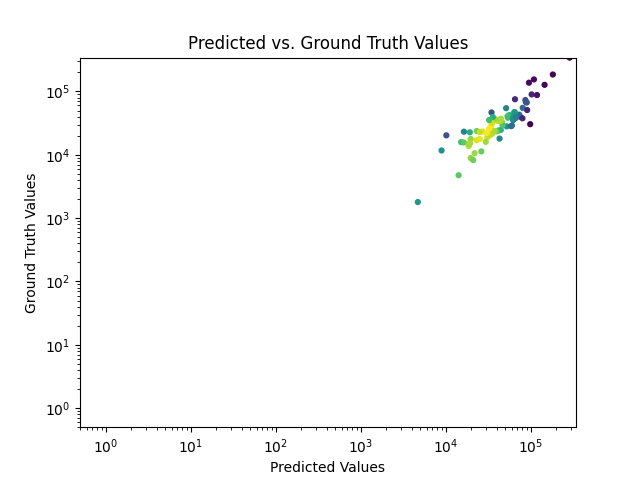
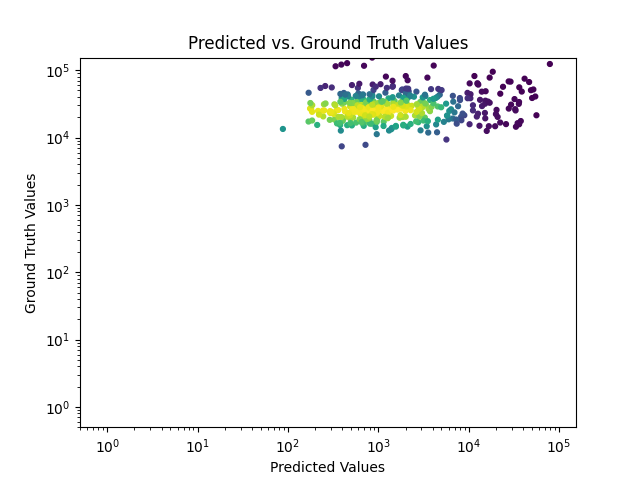
sync code RWA, PRI

diff --git a/utils/transform.py b/utils/transform.py
@@ -5,6 +5,7 @@ import random
 
 import torch
 import torchvision.transforms.functional as TF
+import torchvision.transforms as transforms
 from torch import Tensor
 from utils.constants import config_path
 from utils.file_folder_ops import load_json
@@ -12,7 +13,7 @@ from utils.file_folder_ops import load_json
 from utils.utils import *
 from utils.plot import plot_2dmatrix
 
-
+# CycleGAN
 from model.cycleGAN.models import create_model
 
 
@@ -34,14 +35,37 @@ class Namespace:
     def __init__(self, **kwargs):
         self.__dict__.update(kwargs)
 
+class UnNormalize(object):
+    def __init__(self, mean, std):
+        self.mean = mean
+        self.std = std
 
-class Eu2PRI(object):
-    def __init__(self, model_checkpoint="eu2rwa_cyclegan"):
+    def __call__(self, tensor):
+        """
+        Args:
+            tensor (Tensor): Tensor image of size (C, H, W) to be normalized.
+        Returns:
+            Tensor: Normalized image.
+        """
+        for t, m, s in zip(tensor, self.mean, self.std):
+            t.mul_(s).add_(m)
+            # The normalize code -> t.sub_(m).div_(s)
+        return tensor
+    
+
+class Eu2Rwa(object):
+    def __init__(self, model_checkpoint="eu2rwa_cycleganFreeze", p=0.5):
         
-        opt = Namespace(model="test", name=model_checkpoint, input_nc=3, ngf=64, netG='resnet_9blocks', norm='instance', no_dropout=True, init_type="normal", init_gain=0.02 )
+        opt = Namespace(model="test", name=model_checkpoint, input_nc=3, output_nc=3, ngf=64, netG='resnet_9blocks', norm='instance',
+                        no_dropout=True, init_type="normal", init_gain=0.02, epoch="latest", load_iter=0, isTrain=False, gpu_ids=[0],
+                        preprocess=None,  model_suffix="_A", dataset_mode="single", verbose=False,
+                        checkpoints_dir="/scratch2/metzgern/HAC/code/CycleGANAugs/pytorch-CycleGAN-and-pix2pix/checkpoints/" )
         self.model = create_model(opt)      # create a model given opt.model and other options
         self.model.setup(opt)               # regular setup: load and print networks; create schedulers
-        self.model.eval()
+        self.model.eval()   
+        self.normalize = transforms.Normalize((0.5, 0.5, 0.5), (0.5, 0.5, 0.5))  
+        self.unnormalize  = transforms.Normalize( mean=[-1, -1, -1], std=[2, 2, 2] )            
+        self.p = p
 
     def __call__(self, x):
         if torch.is_tensor(x):
@@ -52,17 +76,22 @@ class Eu2PRI(object):
         if torch.rand(1) < self.p:
             selection = torch.rand(x.shape[0])<self.p
 
-            # TODO: Preprocess
+            # Preprocess, according to the training protocol
+            # x = torch.clip((x[selection]-50)/4000*255, 0, 255)/255 # clip to 0-255
+            x_select = torch.clip((x[selection]-50)/4000, 0, 1) # clip to 0-255
+            x_select = self.normalize(x_select) # normalize to -1,1
 
             # CycleGAn expects a dictionary with the key 'A' and 'A_paths'
             # data = {'A': x[selection], 'A_paths': None, 'B': None, 'B_paths': None}
-            data = {'A': x[selection], 'A_paths': None}
-            self.model.set_input(data)  # unpack data from data loader
+            # data = {'A': x_select, 'A_paths': None}
+            self.model.set_input({'A': x_select, 'A_paths': None})  # unpack data from data loader
             self.model.test()           # run inference
 
-            # TODO: Postprocess
+            # Postprocess  according to the training protocol
+            x_select = self.unnormalize(self.model.fake)*4000+50
 
-            x[selection] = self.model.fake # G(real)
+            # Replace the selected samples with the processed ones
+            x[selection] = x_select # G(real)
 
         return x if mask is None else (x, mask)
     

diff --git a/run_train.py b/run_train.py
@@ -12,6 +12,7 @@ from torchvision.transforms import Normalize
 from torchvision import transforms
 from utils.transform import OwnCompose
 from utils.transform import RandomRotationTransform, RandomHorizontalFlip, RandomVerticalFlip, RandomHorizontalVerticalFlip, RandomBrightness, RandomGamma, HazeAdditionModule, AddGaussianNoise
+from utils.transform import Eu2Rwa
 from tqdm import tqdm
 
 from torchcontrib.optim import SWA
@@ -556,10 +557,10 @@ class Trainer:
                         self.target_test_stats = {**self.target_test_stats,
                                                   **get_test_metrics(census_pred_raw[built_up], census_gt_raw[built_up].float().cuda(), tag="CensusRawPos_{}_{}".format(testdataloader.dataset.region, level))}
     
-                scatterplot = scatter_plot3(census_pred.tolist(), census_gt.tolist())
-                if scatterplot is not None:
-                    self.target_test_stats["Scatter/Scatter_{}_{}".format(testdataloader.dataset.region, level)] = wandb.Image(scatterplot)
-                    scatterplot.save("last_scatter.png")
+                    scatterplot = scatter_plot3(census_pred.tolist(), census_gt.tolist())
+                    if scatterplot is not None:
+                        self.target_test_stats["Scatter/Scatter_{}_{}".format(testdataloader.dataset.region, level)] = wandb.Image(scatterplot)
+                        # scatterplot.save("last_scatter.png")
 
             wandb.log({**{k + '/targettest': v for k, v in self.target_test_stats.items()}, **self.info}, self.info["iter"])
         
@@ -586,29 +587,18 @@ class Trainer:
                 RandomRotationTransform(angles=[90, 180, 270], p=0.75),
             ])
         else: 
-            if not args.Sentinel1: 
-                self.data_transform["general"] = transforms.Compose([
-                    # HazeAdditionModule()
-                    # AddGaussianNoise(std=0.1, p=0.9),
-                    # transforms.RandomHorizontalFlip(p=0.5), transforms.RandomVerticalFlip(p=0.5),
-                    # RandomRotationTransform(angles=[90, 180, 270], p=0.75), 
-                ])
-            else:
-                self.data_transform["general"] = transforms.Compose([
-                    # AddGaussianNoise(std=0.1, p=0.9),
-                    # RandomHorizontalVerticalFlip(p=0.5), transforms.RandomVerticalFlip(p=0.5),
-                    # RandomRotationTransform(angles=[90, 180, 270], p=0.75), 
-                ])
-        # self.data_transform["S2"] = OwnCompose([
-        #     RandomBrightness(p=0.9),
-        #     RandomGamma(p=0.9, gamma_limit=(0.2, 5.0)),
-        #     HazeAdditionModule(p=0.9, atm_limit=(0.3, 1.0), haze_limit=(0.05,0.3))
+            self.data_transform["general"] = transforms.Compose([
+                # AddGaussianNoise(std=0.1, p=0.9),
+            ])
         # ])
-        self.data_transform["S2"] = OwnCompose([
-            RandomBrightness(p=0.9, beta_limit=(0.666, 1.5)),
-            RandomGamma(p=0.9, gamma_limit=(0.6666, 1.5)),
-            # HazeAdditionModule(p=0.5, atm_limit=(0.3, 1.0), haze_limit=(0.05,0.3))
-        ])
+        S2augs = [  RandomBrightness(p=0.9, beta_limit=(0.666, 1.5)),
+                    RandomGamma(p=0.9, gamma_limit=(0.6666, 1.5)),
+                    # HazeAdditionModule(p=0.5, atm_limit=(0.3, 1.0), haze_limit=(0.05,0.3))
+        ]
+        if args.eu2rwa:
+            S2augs.append(Eu2Rwa())
+        self.data_transform["S2"] = OwnCompose(S2augs)
+
         
         self.data_transform["S1"] = transforms.Compose([
             # RandomBrightness(p=0.95),

diff --git a/run_eval.py b/run_eval.py
@@ -155,26 +155,27 @@ class Trainer:
                 
                 # convert populationmap to census
 
+                # convert populationmap to census
                 for level in testlevels[testdataloader.dataset.region]:
-                    census_pred, census_gt = testdataloader.dataset.convert_popmap_to_census(output_map, gpu_mode=True)
+                    census_pred, census_gt = testdataloader.dataset.convert_popmap_to_census(output_map, gpu_mode=True, level=level)
                     self.target_test_stats = {**self.target_test_stats,
-                                              **get_test_metrics(census_pred, census_gt.float().cuda(), tag="census")}
+                                              **get_test_metrics(census_pred, census_gt.float().cuda(), tag="MainCensus_{}_{}".format(testdataloader.dataset.region, level))}
                     built_up = census_gt>10
                     self.target_test_stats = {**self.target_test_stats,
-                                            **get_test_metrics(census_pred[built_up], census_gt[built_up].float().cuda(), tag="census_pos")}
-
+                                              **get_test_metrics(census_pred[built_up], census_gt[built_up].float().cuda(), tag="MainCensusPos_{}_{}".format(testdataloader.dataset.region, level))}
+                    
                     if self.boosted:
-                        census_pred_raw, census_gt_raw = testdataloader.dataset.convert_popmap_to_census(output_map_raw, gpu_mode=True)
+                        census_pred_raw, census_gt_raw = testdataloader.dataset.convert_popmap_to_census(output_map_raw, gpu_mode=True, level=level)
                         self.target_test_stats = {**self.target_test_stats,
-                                                **get_test_metrics(census_pred_raw, census_gt_raw.float().cuda(), tag="CensusRaw_{}_{}".format(testdataloader.dataset.region, level))}
+                                                  **get_test_metrics(census_pred_raw, census_gt_raw.float().cuda(), tag="CensusRaw_{}_{}".format(testdataloader.dataset.region, level))}
                         built_up = census_gt_raw>10
                         self.target_test_stats = {**self.target_test_stats,
-                                                **get_test_metrics(census_pred_raw[built_up], census_gt_raw[built_up].float().cuda(), tag="CensusRawPos_{}_{}".format(testdataloader.dataset.region, level))}
-
+                                                  **get_test_metrics(census_pred_raw[built_up], census_gt_raw[built_up].float().cuda(), tag="CensusRawPos_{}_{}".format(testdataloader.dataset.region, level))}
+    
                     scatterplot = scatter_plot3(census_pred.tolist(), census_gt.tolist())
                     if scatterplot is not None:
                         self.target_test_stats["Scatter/Scatter_{}".format(testdataloader.dataset.region)] = wandb.Image(scatterplot)
-                        scatterplot.save("last_scatter.png")
+                        # scatterplot.save("last_scatter.png")
 
                 print("Domain:", testdataloader.dataset.region)
                 print(self.target_test_stats)

diff --git a/data/PopulationDataset_target.py b/data/PopulationDataset_target.py
@@ -70,10 +70,10 @@ class Population_Dataset_target(Dataset):
             for data_type in ["boundary", "census"]:
                 self.file_paths[level][data_type] = os.path.join(region_root, datalocations[region][level][data_type])
 
-            # self.boundary_file = os.path.join(region_root, datalocations[region]["fine"]["boundary"])
-            # self.census_file = os.path.join(region_root, datalocations[region]["fine"]["census"])
-            # self.coarse_boundary_file = os.path.join(region_root, datalocations[region]["coarse"]["boundary"])
-            # self.coarse_census_file = os.path.join(region_root, datalocations[region]["coarse"]["census"])
+            self.boundary_file = os.path.join(region_root, datalocations[region]["fine"]["boundary"])
+            self.census_file = os.path.join(region_root, datalocations[region]["fine"]["census"])
+            self.coarse_boundary_file = os.path.join(region_root, datalocations[region]["coarse"]["boundary"])
+            self.coarse_census_file = os.path.join(region_root, datalocations[region]["coarse"]["census"])
             
         # weaksup data specific preparation
         if self.mode == "weaksup":
@@ -431,6 +431,9 @@ class Population_Dataset_target(Dataset):
         boundary_file = self.file_paths[level]["boundary"]
         census_file = self.file_paths[level]["census"]
 
+        # boundary_file = self.boundary_file
+        # census_file = self.census_file
+
         # raise NotImplementedError
         with rasterio.open(boundary_file, "r") as src:
             boundary = src.read(1)
@@ -446,7 +449,8 @@ class Population_Dataset_target(Dataset):
 
             # iterate over census regions and get totals
             # for i, (cidx,bbox) in tqdm(enumerate(zip(census["idx"], census["bbox"])), total=len(census)):
-            for i, (cidx,bbox) in tqdm(enumerate(zip(census["idx"], census["bbox"]))):
+            for i, (cidx,bbox) in enumerate(zip(census["idx"], census["bbox"])):
+            # for i, (cidx,bbox) in tqdm(enumerate(zip(census["idx"], census["bbox"]))):
                 xmin, xmax, ymin, ymax = tuple(map(int, bbox.strip('()').strip('[]').split(',')))
                 census_pred[i] = pred[xmin:xmax, ymin:ymax][boundary[xmin:xmax, ymin:ymax]==cidx].sum()
 

diff --git a/utils/02_preprocess_rwa_shapefile.py b/utils/02_preprocess_rwa_shapefile.py
@@ -132,18 +132,19 @@ def process(hd_regions_path, wp_regions_path,
     ##############################
     # now process the fine census data
     # read kigali census data
-    with rasterio.open(kigali_census_data_path, 'r') as src:
-        kigali_census_map = src.read(1)
-        kigali_census_meta = src.meta.copy()
 
     for res in [100,200,400,500,1000]:
+    # for res in [400,1000]:
+
+        with rasterio.open(kigali_census_data_path, 'r') as src:
+            kigali_census_map = src.read(1)
+            kigali_census_meta = src.meta.copy()
 
         this_outputfile = os.path.join(output_path, 'boundaries_kigali{}.tif'.format(res))
         this_censusfile = os.path.join(output_path, 'census_kigali{}.csv'.format(res))
-        tmp_path = os.path.join(output_path, "tmp")
+        tmp_path = os.path.join(output_path, "tmp.tif")
 
         # pool the image to the desired resolution
-
         scale = int(res/100)
         if scale!=1:
             # pool the image

diff --git a/model/ownmodels.py b/model/ownmodels.py
@@ -37,6 +37,7 @@ class BoostUNet(nn.Module):
         # Build the main model
         self.unetmodel1 = CustomUNet(feature_extractor, in_channels=input_channels, classes=feature_dim, down=down) # Sentinel1
         # self.unetmodel1 = CustomUNet(feature_extractor, in_channels=2, classes=feature_dim, down=down) # Sentinel1
+        # self.unetmodel2 = CustomUNet("vgg16", in_channels=input_channels+1, classes=feature_dim, down=down2) # Sentinel2
         self.unetmodel2 = CustomUNet(feature_extractor, in_channels=input_channels+1, classes=feature_dim, down=down2) # Sentinel2
         # self.unetmodel2 = CustomUNet(feature_extractor, in_channels=input_channels-2+1, classes=feature_dim, down=down2) # Sentinel2
         # self.unetmodel2 = CustomUNet(feature_extractor, in_channels=input_channels-2+1+feature_dim, classes=feature_dim, down=down2) # Sentinel2

diff --git a/arguments/train.py b/arguments/train.py
@@ -49,6 +49,8 @@ parser.add_argument("-lc", "--lam_coral", help='', type=float, default=1.0)
 parser.add_argument("-mmd", "--MMD", action='store_true', help="")
 parser.add_argument("-lmmd", "--lam_mmd", help='', type=float, default=1.0)
 parser.add_argument("-clasif", "--classifier", default="v8", help="")
+parser.add_argument("-e2rwa", "--eu2rwa", action='store_true', help="")
+
 parser.add_argument("-head", "--head", default="v1", help="")
 
 parser.add_argument('-wd', '--weightdecay', help='', type=float, default=0.0)

diff --git a/model/cycleGAN/models/__init__.py b/model/cycleGAN/models/__init__.py
@@ -30,7 +30,8 @@ def find_model_using_name(model_name):
     be instantiated. It has to be a subclass of BaseModel,
     and it is case-insensitive.
     """
-    model_filename = "models." + model_name + "_model"
+    model_filename = "model.cycleGAN.models." + model_name + "_model"
+    # model_filename = "models." + model_name + "_model"
     modellib = importlib.import_module(model_filename)
     model = None
     target_model_name = model_name.replace('_', '') + 'model'

diff --git a/utils/plot.py b/utils/plot.py
@@ -137,7 +137,7 @@ def scatter_plot3(predicted, ground_truth):
 
     # Remove zeros from x and y
     mask = (x != 0) & (y != 0)
-    if mask.sum() == 0:
+    if mask.sum() <= 2:
         return None
     
     x = x[mask]

diff --git a/utils/constants.py b/utils/constants.py
@@ -109,7 +109,7 @@ datalocations = {
 }
 
 testlevels = {
-    'pricp2': ["fine", "coarse"],
+    'pricp2': ["fine", "fineTRACTCE"],
     'rwa': ["fine100", "fine200", "fine400", "fine500", "fine1000", "coarse"]
 }
 
